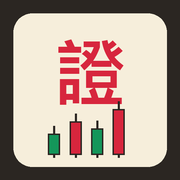
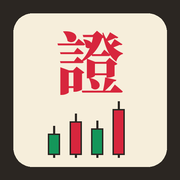
天氣改成純隨機、加入製作與授權頁、圖示改用 Noto Serif TC、兩家公司改名避免和上市公司撞名

Changed region(s): [[0.3056, 0.1667, 0.6944, 0.5833]]

diff --git a/index.html b/index.html
@@ -1262,7 +1262,7 @@ const STOCKS = [
   { id: 'gar', name: '新莊成衣', sector: '紡織', st: '循環', p0: 15.6, beta: 1.0, vol: 0.025, cap: 1, weak: true },
   { id: 'pla', name: '淡水塑化', sector: '塑化', st: '循環', p0: 46, beta: 1.0, vol: 0.016, cap: 7 },
   { id: 'chm', name: '港都化工', sector: '塑化', st: '循環', p0: 31, beta: 1.1, vol: 0.02, cap: 3 },
-  { id: 'stl', name: '南港鋼鐵', sector: '鋼鐵', st: '循環', p0: 25, beta: 1.1, vol: 0.022, cap: 4 },
+  { id: 'stl', name: '八里鋼鐵', sector: '鋼鐵', st: '循環', p0: 25, beta: 1.1, vol: 0.022, cap: 4 },
   { id: 'cem', name: '鶯歌水泥', sector: '水泥', st: '循環', p0: 34, beta: 1.0, vol: 0.018, cap: 3 },
   { id: 'shp', name: '基港航運', sector: '航運', st: '循環', p0: 22.3, beta: 1.2, vol: 0.027, cap: 3 },
   { id: 'sea', name: '高港海運', sector: '航運', st: '循環', p0: 18.4, beta: 1.3, vol: 0.03, cap: 2, weak: true },
@@ -1276,7 +1276,7 @@ const STOCKS = [
   { id: 'pkg', name: '竹科封測', sector: '半導體', st: '成長', p0: 44, beta: 1.35, vol: 0.03, cap: 3 },
   { id: 'srv', name: '雲頂電腦', sector: '伺服器', st: '成長', p0: 42, beta: 1.4, vol: 0.032, cap: 3 },
   { id: 'net', name: '內湖網通', sector: '伺服器', st: '成長', p0: 31, beta: 1.4, vol: 0.034, cap: 2 },
-  { id: 'bio', name: '南港生技', sector: '生技', st: '成長', p0: 66, beta: 1.0, vol: 0.035, cap: 2 },
+  { id: 'bio', name: '士林生技', sector: '生技', st: '成長', p0: 66, beta: 1.0, vol: 0.035, cap: 2 },
   { id: 'med', name: '北投藥廠', sector: '生技', st: '價值', p0: 39, beta: 0.8, vol: 0.02, cap: 2, weak: true },
   { id: 'ipo1', name: '光華電腦', sector: '伺服器', st: '成長', p0: 48, beta: 1.5, vol: 0.038, cap: 2, ipo: true },
   { id: 'ipo2', name: '竹北光電', sector: '電子', st: '成長', p0: 36, beta: 1.4, vol: 0.036, cap: 2, ipo: true },
@@ -1473,20 +1473,6 @@ function rebuildSeason() {
 }
 function limitOf(d) { return (SEASON && SEASON.limit && SEASON.limit[d]) || { up: LIMIT, dn: LIMIT, ns: false }; }
 function limitsL(p, L) { let up = roundTick(p * (1 + L.up)), dn = roundTick(p * (1 - L.dn)); if (up > p * (1 + L.up) + 1e-9) up -= tick(p); if (dn < p * (1 - L.dn) - 1e-9) dn += tick(p); return [up, dn]; }
-// 即時天氣（Open-Meteo，台北）。Claude 的預覽頁面會擋外部連線，失敗時就沿用模擬天氣。
-function wmoToWeather(code, wind) {
-  if (wind >= 62) return 'typhoon';
-  if (code >= 95 || (code >= 65 && code <= 67) || code === 82) return 'storm';
-  if ((code >= 51 && code <= 64) || (code >= 80 && code <= 81)) return 'rain';
-  if (code >= 2) return 'cloud';
-  return 'sun';
-}
-async function fetchRealWeather() {
-  const url = 'https://api.open-meteo.com/v1/forecast?latitude=25.05&longitude=121.52&current=temperature_2m,weather_code,wind_speed_10m&timezone=Asia%2FTaipei';
-  const ctl = new AbortController(); const tm = setTimeout(() => ctl.abort(), 6000);
-  try { const r = await fetch(url, { signal: ctl.signal }); const j = await r.json(); const c = j.current; return { w: wmoToWeather(c.weather_code, c.wind_speed_10m), t: Math.round(c.temperature_2m) }; }
-  catch (e) { return null; } finally { clearTimeout(tm); }
-}
 function limits(p, d) { return limitsL(p, limitOf(d === undefined ? (typeof S !== 'undefined' && S ? S.day : 1) : d)); }
 // 盤中走勢：從開盤走到收盤的布朗橋，漲跌停時常常一開盤就鎖住
 function genIntraday(d) {
@@ -1562,7 +1548,7 @@ function resolveRumors(d) {
    ========================================================= */
 const $ = id => document.getElementById(id);
 const SAVE_KEY = 'stock-tycoon-v1';
-const S0 = () => ({ seed: (Math.random() * 1e9) | 0, day: 1, season: 1, cash: START_CASH, hold: {}, mar: {}, sht: {}, eggs: {}, certs: [], bullSeason: 0, speed: 1, realWx: false, wOver: {}, goalSeen: {}, tradeDay: 0, izDay: 0, notesSeen: false, usedMargin: false, deposit: 0, depDay: 0, ponziGone: false, phone: false, rumors: [], talked: {}, rank: 0, seen: [], dayStartNet: START_CASH, min: 7 * 60, music: false, sfx: false, pos: null, won: false });
+const S0 = () => ({ seed: (Math.random() * 1e9) | 0, day: 1, season: 1, cash: START_CASH, hold: {}, mar: {}, sht: {}, eggs: {}, certs: [], bullSeason: 0, speed: 1, wOver: {}, goalSeen: {}, tradeDay: 0, izDay: 0, notesSeen: false, usedMargin: false, deposit: 0, depDay: 0, ponziGone: false, phone: false, rumors: [], talked: {}, rank: 0, seen: [], dayStartNet: START_CASH, min: 7 * 60, music: false, sfx: false, pos: null, won: false });
 let S = S0();
 const GAME = { mode: 'title', started: false, busy: false, t: 0, idxTicks: [] };
 const MK = { path: null, k: -1, prices: null };
@@ -2232,7 +2218,7 @@ function renderNotes() {
 let helpTab = 'guide';
 function openHelp() {
   if (GAME.busy) return; GAME.busy = true; $('help').classList.remove('hide');
-  let h = `<div class="tabs" style="margin-bottom:10px"><button class="tab ${helpTab === 'guide' ? 'on' : ''}" data-h="guide">新手指南</button><button class="tab ${helpTab === 'set' ? 'on' : ''}" data-h="set">設定</button></div>`;
+  let h = `<div class="tabs" style="margin-bottom:10px"><button class="tab ${helpTab === 'guide' ? 'on' : ''}" data-h="guide">新手指南</button><button class="tab ${helpTab === 'set' ? 'on' : ''}" data-h="set">設定</button><button class="tab ${helpTab === 'about' ? 'on' : ''}" data-h="about">製作與授權</button></div>`;
   if (helpTab === 'guide') h += `<div class="guide">
     <p style="margin-top:0">1980 年代末的台北，股市像坐雲霄飛車。你是剛到證券行跑單的<b>阿德</b>，帶著 ${wan(START_CASH)}，目標是成為<b>證券大亨</b>（總資產 ${wan(RANKS[RANKS.length - 1].min)}）。左上角的「任務提示」會告訴你下一步做什麼，點一下就會標出目的地。</p>
     <h4>1. 一天怎麼過</h4>
@@ -2247,7 +2233,7 @@ function openHelp() {
     <h4>5. 股票類型</h4>
     <ul><li><b>成長股</b>（電子、半導體、伺服器、生技）：波動大，景氣好、題材熱時漲得兇，升息時跌得重。</li><li><b>價值股</b>（金融、電信、食品、紡織資產股）：波動小，比較抗跌。</li><li><b>景氣循環股</b>（塑化、鋼鐵、航運、營建）：跟著景氣、油價和原物料起伏。</li></ul>
     <h4>6. 天氣與情緒</h4>
-    <ul><li>晴天大家心情好，股價稍微偏多；下雨天證券行人少，成交量變小、股價稍微偏弱；遇到颱風會放颱風假、休市一天。影響都很小，大方向還是看消息和事件。</li><li>在設定裡可以改成「台北即時天氣」（要在 GitHub Pages 等一般網頁上才抓得到，Claude 的預覽頁面會擋外部連線）。</li></ul>
+    <ul><li>晴天大家心情好，股價稍微偏多；下雨天證券行人少，成交量變小、股價稍微偏弱；遇到颱風會放颱風假、休市一天。影響都很小，大方向還是看消息和事件。</li><li>每天的天氣由遊戲隨機決定，不會連線抓真實天氣。</li></ul>
     <h4>7. 事件卡與歷史小百科</h4>
     <p>每個月會從真實歷史改編的事件裡抽 5 張，隨機排列，包括 1987 黑色星期一、1979–1981 聯準會暴力升息、1995–1996 台海飛彈危機、1997 亞洲金融風暴、2023–2024 AI 浪潮等。爆發時會出現「號外」，消息本的「歷史小百科」記錄它改編自哪一段歷史。地下投資公司每個月一定會倒，別把錢放太久。</p>
     <h4>8. 身分晉升</h4>
@@ -2256,12 +2242,11 @@ function openHelp() {
     <h4>9. 操作</h4>
     <p>WASD／方向鍵移動、Shift 快跑、E 說話、K 看盤下單、N 消息本、P 暫停、T 快轉到下一個時段、M 城市地圖、H 指南、Q 暫存、O 存檔與讀檔、拖曳轉視角。遊戲不會自動存檔，記得隨手按 Q 留暫存點。手機用左下搖桿、右下「互動」「看盤」。</p>
     <p class="note">這是原型。公司、人物與行情都是虛構的；重大事件改編自 1980 年代末到 1990 年的台灣與國際股市歷史，經過隨機排列，僅供體驗與學習，不構成任何投資建議。</p></div>`;
+  else if (helpTab === 'about') h += CREDITS_HTML;
   else h += `
     <p>盤中時間（09:00–13:30）：${SPEEDS.map(([v, t]) => `<button class="btn ${(S.spOpen || 1) === v ? 'pri' : ''}" data-spo="${v}">${t}</button>`).join(' ')}</p>
     <p>逛街時間（盤前、盤後、晚上）：${SPEEDS.map(([v, t]) => `<button class="btn ${(S.spWalk || 1) === v ? 'pri' : ''}" data-spw="${v}">${t}</button>`).join(' ')}</p>
     <p class="note">照現在的設定，一天大約 ${dayMinutes()} 分鐘（說話、看盤、看報紙時時間會暫停）。逛完了可以按「快轉」，或回家睡覺直接跳到隔天。</p>
-    <p>天氣來源：<button class="btn" id="hpWx">${S.realWx ? '台北即時天氣（開）' : '遊戲模擬天氣'}</button></p>
-    <p class="note" style="margin-top:-4px">即時天氣使用 Open-Meteo 的台北天氣，只會在盤前套用到「今天」。抓不到時自動改用模擬天氣。</p>
     <p><button class="btn" id="hpMus">音樂：${S.music ? '開' : '關'}</button> <button class="btn" id="hpSfx">音效：${S.sfx ? '開' : '關'}</button> <button class="btn" id="hpPow">省電模式：${POWER ? '開' : '關'}</button> <button class="btn" id="hpVib">震動：${VIB ? '開' : '關'}</button> <button class="btn" id="hpReset">重新開始新的一年</button></p>
     <p class="note"><b>手機小技巧</b>：點人物頭上的名字，阿德會自己走過去說話。想像 App 一樣全螢幕玩，可以把遊戲加入主畫面——iPhone 用 Safari 的「分享 → 加入主畫面」，Android 用 Chrome 右上角「⋮ → 加到主畫面」或「安裝應用程式」。</p>
     <p class="note" style="margin-top:-4px">重新開始不會刪掉暫存點和存檔格。</p>`;
@@ -2274,21 +2259,27 @@ function openHelp() {
   if (q('hpSfx')) q('hpSfx').onclick = () => { setSound('sfx'); openHelp2(); };
   $('hpBody').querySelectorAll('[data-spo]').forEach(b => b.onclick = () => { S.spOpen = +b.dataset.spo; openHelp2(); });
   $('hpBody').querySelectorAll('[data-spw]').forEach(b => b.onclick = () => { S.spWalk = +b.dataset.spw; openHelp2(); });
-  if (q('hpWx')) q('hpWx').onclick = async () => { S.realWx = !S.realWx; saveGame(); openHelp2(); if (S.realWx) await useRealWeather(true); };
   if (q('hpReset')) q('hpReset').onclick = function () { if (this.dataset.c) { closeModals(); startGame(false); } else { this.dataset.c = 1; this.textContent = '再按一次確定'; this.style.background = 'var(--accent)'; this.style.color = '#fff'; } };
 }
 function openHelp2() { GAME.busy = false; openHelp(); }
+/* ---------- 製作與授權 ---------- */
+const CREDITS_HTML = `<div class="guide">
+  <h4>製作分工</h4>
+  <ul><li><b>作者</b>：遊戲概念與 1980 年代台北股市的世界觀、玩法與規則、目標金額與難度、角色與事件的取捨、每一輪試玩後的修改方向，以及背景音樂。</li>
+  <li><b>AI 協作</b>：程式實作、用程式產生的 3D 城市與人物、行情模擬的數值校準和文字草稿，由 Claude（Anthropic 的 AI）依作者的指示完成。所有內容都經過作者試玩與審閱。</li></ul>
+  <h4>音樂與音效</h4>
+  <ul><li>背景音樂〈Calculated Ascent〉（盤中）、〈Ready for the First Move〉（其他時段）：作者提供的原創音樂。</li><li>結局配樂與音效：瀏覽器即時合成，沒有使用外部音檔。</li></ul>
+  <h4>第三方元件</h4>
+  <ul><li>3D 引擎 <b>three.js r128</b>：MIT License，© 2010–2021 three.js authors。</li>
+  <li>字型 <b>Huninn（jf open 粉圓）</b>、<b>Noto Serif TC</b>、<b>VT323</b>：SIL Open Font License 1.1，由 Google Fonts 提供。App 圖示也是用 Noto Serif TC 繪製。</li></ul>
+  <h4>資料與內容</h4>
+  <ul><li>公司、人物、對話都是虛構的；天氣每天由遊戲隨機產生。</li><li>市場事件改編自公開的歷史，經過重新排列，時間、順序和漲跌幅都不等於真實歷史。</li><li>遊戲不會收集任何個人資料，存檔只存在這台裝置的瀏覽器裡。</li></ul>
+  <p class="note">這是一款遊戲，不構成任何投資建議。</p></div>`;
 
 /* ---------- 天氣 ---------- */
+// 舊版存檔可能記了當時抓到的真實天氣，讀檔時照樣套用，行情才會和存檔時一樣
 function applyWeatherOverrides() { for (const d in S.wOver || {}) { if (+d <= DAYS) { SEASON.weather[d] = S.wOver[d].w; SEASON.temp[d] = S.wOver[d].t; } } rebuildSeason(); }
-async function useRealWeather(manual) {
-  if (PHASE() !== 'pre') { if (manual) toast('即時天氣會從明天盤前開始套用'); return; }
-  const r = await fetchRealWeather();
-  if (!r) { if (manual) toast('抓不到即時天氣（Claude 預覽頁面會擋外部連線），先用模擬天氣'); return; }
-  S.wOver[S.day] = r; applyWeatherOverrides(); MK.prices = null; drawBoard(); toast(`台北即時天氣：${WEATHER[r.w].name} ${r.t}°C`); saveGame();
-}
 async function dayWeather() {
-  if (S.realWx) await useRealWeather(false);
   const w = SEASON.weather[Math.min(S.day, DAYS)], tip = { rain: '下雨天證券行人少，成交量會變小', storm: '豪雨特報，市場氣氛偏悲觀', typhoon: '颱風來了，今天會放颱風假休市', sun: '晴天，大家心情不錯', cloud: '陰天' }[w];
   toast(`今天天氣：${WEATHER[w].name} ${SEASON.temp[Math.min(S.day, DAYS)]}°C・${tip}`);
 }
@@ -3693,7 +3684,7 @@ const PROFILE = {
   tel: '公營改民營的電信公司，股價最穩，像定存。', gas: '北城的瓦斯公司，業績穩定、波動很小。', food: '泡麵、罐頭都做，景氣不好時反而撐得住。',
   sug: '老糖廠轉型，地很多，常被當成資產股。', milk: '小乳品廠，財務體質不好，傳言多。', tex: '大稻埕老紡織廠，工廠用地比本業還值錢。',
   gar: '代工成衣廠，訂單一直被東南亞搶走。', pla: '塑化龍頭，跟著油價和景氣大起大落。', chm: '港都的化工廠，產品報價一漲股價就飆。',
-  stl: '南港的鋼鐵廠，景氣循環的代表。', cem: '水泥廠，公共建設和房市熱的時候最好。', shp: '貨櫃航運，運價一動就漲停跌停。',
+  stl: '八里海邊的鋼鐵廠，景氣循環的代表。', cem: '水泥廠，公共建設和房市熱的時候最好。', shp: '貨櫃航運，運價一動就漲停跌停。',
   sea: '散裝航運，體質比較弱，是投機客的最愛。', con: '營建大廠，預售屋賣得好壞決定一切。', est: '東區新興建商，擴張很快、借錢很多。',
   dept: '西門町的百貨公司，週年慶和觀光客決定業績。', ele: '新竹科學園區的電子廠，接單消息一來就飆。', pcb: '做電路板的板橋工廠，跟著電子業景氣走。',
   mot: '中和的小電機廠，傳產轉型不太順利。', fab: '晶圓代工，技術領先，外資和法人最愛。', pkg: '竹科的封裝測試廠，跟著晶圓廠接單。',

diff --git a/src/8_flow.js b/src/8_flow.js
@@ -388,7 +388,7 @@ function renderNotes() {
 let helpTab = 'guide';
 function openHelp() {
   if (GAME.busy) return; GAME.busy = true; $('help').classList.remove('hide');
-  let h = `<div class="tabs" style="margin-bottom:10px"><button class="tab ${helpTab === 'guide' ? 'on' : ''}" data-h="guide">新手指南</button><button class="tab ${helpTab === 'set' ? 'on' : ''}" data-h="set">設定</button></div>`;
+  let h = `<div class="tabs" style="margin-bottom:10px"><button class="tab ${helpTab === 'guide' ? 'on' : ''}" data-h="guide">新手指南</button><button class="tab ${helpTab === 'set' ? 'on' : ''}" data-h="set">設定</button><button class="tab ${helpTab === 'about' ? 'on' : ''}" data-h="about">製作與授權</button></div>`;
   if (helpTab === 'guide') h += `<div class="guide">
     <p style="margin-top:0">1980 年代末的台北，股市像坐雲霄飛車。你是剛到證券行跑單的<b>阿德</b>，帶著 ${wan(START_CASH)}，目標是成為<b>證券大亨</b>（總資產 ${wan(RANKS[RANKS.length - 1].min)}）。左上角的「任務提示」會告訴你下一步做什麼，點一下就會標出目的地。</p>
     <h4>1. 一天怎麼過</h4>
@@ -403,7 +403,7 @@ function openHelp() {
     <h4>5. 股票類型</h4>
     <ul><li><b>成長股</b>（電子、半導體、伺服器、生技）：波動大，景氣好、題材熱時漲得兇，升息時跌得重。</li><li><b>價值股</b>（金融、電信、食品、紡織資產股）：波動小，比較抗跌。</li><li><b>景氣循環股</b>（塑化、鋼鐵、航運、營建）：跟著景氣、油價和原物料起伏。</li></ul>
     <h4>6. 天氣與情緒</h4>
-    <ul><li>晴天大家心情好，股價稍微偏多；下雨天證券行人少，成交量變小、股價稍微偏弱；遇到颱風會放颱風假、休市一天。影響都很小，大方向還是看消息和事件。</li><li>在設定裡可以改成「台北即時天氣」（要在 GitHub Pages 等一般網頁上才抓得到，Claude 的預覽頁面會擋外部連線）。</li></ul>
+    <ul><li>晴天大家心情好，股價稍微偏多；下雨天證券行人少，成交量變小、股價稍微偏弱；遇到颱風會放颱風假、休市一天。影響都很小，大方向還是看消息和事件。</li><li>每天的天氣由遊戲隨機決定，不會連線抓真實天氣。</li></ul>
     <h4>7. 事件卡與歷史小百科</h4>
     <p>每個月會從真實歷史改編的事件裡抽 5 張，隨機排列，包括 1987 黑色星期一、1979–1981 聯準會暴力升息、1995–1996 台海飛彈危機、1997 亞洲金融風暴、2023–2024 AI 浪潮等。爆發時會出現「號外」，消息本的「歷史小百科」記錄它改編自哪一段歷史。地下投資公司每個月一定會倒，別把錢放太久。</p>
     <h4>8. 身分晉升</h4>
@@ -412,12 +412,11 @@ function openHelp() {
     <h4>9. 操作</h4>
     <p>WASD／方向鍵移動、Shift 快跑、E 說話、K 看盤下單、N 消息本、P 暫停、T 快轉到下一個時段、M 城市地圖、H 指南、Q 暫存、O 存檔與讀檔、拖曳轉視角。遊戲不會自動存檔，記得隨手按 Q 留暫存點。手機用左下搖桿、右下「互動」「看盤」。</p>
     <p class="note">這是原型。公司、人物與行情都是虛構的；重大事件改編自 1980 年代末到 1990 年的台灣與國際股市歷史，經過隨機排列，僅供體驗與學習，不構成任何投資建議。</p></div>`;
+  else if (helpTab === 'about') h += CREDITS_HTML;
   else h += `
     <p>盤中時間（09:00–13:30）：${SPEEDS.map(([v, t]) => `<button class="btn ${(S.spOpen || 1) === v ? 'pri' : ''}" data-spo="${v}">${t}</button>`).join(' ')}</p>
     <p>逛街時間（盤前、盤後、晚上）：${SPEEDS.map(([v, t]) => `<button class="btn ${(S.spWalk || 1) === v ? 'pri' : ''}" data-spw="${v}">${t}</button>`).join(' ')}</p>
     <p class="note">照現在的設定，一天大約 ${dayMinutes()} 分鐘（說話、看盤、看報紙時時間會暫停）。逛完了可以按「快轉」，或回家睡覺直接跳到隔天。</p>
-    <p>天氣來源：<button class="btn" id="hpWx">${S.realWx ? '台北即時天氣（開）' : '遊戲模擬天氣'}</button></p>
-    <p class="note" style="margin-top:-4px">即時天氣使用 Open-Meteo 的台北天氣，只會在盤前套用到「今天」。抓不到時自動改用模擬天氣。</p>
     <p><button class="btn" id="hpMus">音樂：${S.music ? '開' : '關'}</button> <button class="btn" id="hpSfx">音效：${S.sfx ? '開' : '關'}</button> <button class="btn" id="hpPow">省電模式：${POWER ? '開' : '關'}</button> <button class="btn" id="hpVib">震動：${VIB ? '開' : '關'}</button> <button class="btn" id="hpReset">重新開始新的一年</button></p>
     <p class="note"><b>手機小技巧</b>：點人物頭上的名字，阿德會自己走過去說話。想像 App 一樣全螢幕玩，可以把遊戲加入主畫面——iPhone 用 Safari 的「分享 → 加入主畫面」，Android 用 Chrome 右上角「⋮ → 加到主畫面」或「安裝應用程式」。</p>
     <p class="note" style="margin-top:-4px">重新開始不會刪掉暫存點和存檔格。</p>`;
@@ -430,21 +429,27 @@ function openHelp() {
   if (q('hpSfx')) q('hpSfx').onclick = () => { setSound('sfx'); openHelp2(); };
   $('hpBody').querySelectorAll('[data-spo]').forEach(b => b.onclick = () => { S.spOpen = +b.dataset.spo; openHelp2(); });
   $('hpBody').querySelectorAll('[data-spw]').forEach(b => b.onclick = () => { S.spWalk = +b.dataset.spw; openHelp2(); });
-  if (q('hpWx')) q('hpWx').onclick = async () => { S.realWx = !S.realWx; saveGame(); openHelp2(); if (S.realWx) await useRealWeather(true); };
   if (q('hpReset')) q('hpReset').onclick = function () { if (this.dataset.c) { closeModals(); startGame(false); } else { this.dataset.c = 1; this.textContent = '再按一次確定'; this.style.background = 'var(--accent)'; this.style.color = '#fff'; } };
 }
 function openHelp2() { GAME.busy = false; openHelp(); }
+/* ---------- 製作與授權 ---------- */
+const CREDITS_HTML = `<div class="guide">
+  <h4>製作分工</h4>
+  <ul><li><b>作者</b>：遊戲概念與 1980 年代台北股市的世界觀、玩法與規則、目標金額與難度、角色與事件的取捨、每一輪試玩後的修改方向，以及背景音樂。</li>
+  <li><b>AI 協作</b>：程式實作、用程式產生的 3D 城市與人物、行情模擬的數值校準和文字草稿，由 Claude（Anthropic 的 AI）依作者的指示完成。所有內容都經過作者試玩與審閱。</li></ul>
+  <h4>音樂與音效</h4>
+  <ul><li>背景音樂〈Calculated Ascent〉（盤中）、〈Ready for the First Move〉（其他時段）：作者提供的原創音樂。</li><li>結局配樂與音效：瀏覽器即時合成，沒有使用外部音檔。</li></ul>
+  <h4>第三方元件</h4>
+  <ul><li>3D 引擎 <b>three.js r128</b>：MIT License，© 2010–2021 three.js authors。</li>
+  <li>字型 <b>Huninn（jf open 粉圓）</b>、<b>Noto Serif TC</b>、<b>VT323</b>：SIL Open Font License 1.1，由 Google Fonts 提供。App 圖示也是用 Noto Serif TC 繪製。</li></ul>
+  <h4>資料與內容</h4>
+  <ul><li>公司、人物、對話都是虛構的；天氣每天由遊戲隨機產生。</li><li>市場事件改編自公開的歷史，經過重新排列，時間、順序和漲跌幅都不等於真實歷史。</li><li>遊戲不會收集任何個人資料，存檔只存在這台裝置的瀏覽器裡。</li></ul>
+  <p class="note">這是一款遊戲，不構成任何投資建議。</p></div>`;
 
 /* ---------- 天氣 ---------- */
+// 舊版存檔可能記了當時抓到的真實天氣，讀檔時照樣套用，行情才會和存檔時一樣
 function applyWeatherOverrides() { for (const d in S.wOver || {}) { if (+d <= DAYS) { SEASON.weather[d] = S.wOver[d].w; SEASON.temp[d] = S.wOver[d].t; } } rebuildSeason(); }
-async function useRealWeather(manual) {
-  if (PHASE() !== 'pre') { if (manual) toast('即時天氣會從明天盤前開始套用'); return; }
-  const r = await fetchRealWeather();
-  if (!r) { if (manual) toast('抓不到即時天氣（Claude 預覽頁面會擋外部連線），先用模擬天氣'); return; }
-  S.wOver[S.day] = r; applyWeatherOverrides(); MK.prices = null; drawBoard(); toast(`台北即時天氣：${WEATHER[r.w].name} ${r.t}°C`); saveGame();
-}
 async function dayWeather() {
-  if (S.realWx) await useRealWeather(false);
   const w = SEASON.weather[Math.min(S.day, DAYS)], tip = { rain: '下雨天證券行人少，成交量會變小', storm: '豪雨特報，市場氣氛偏悲觀', typhoon: '颱風來了，今天會放颱風假休市', sun: '晴天，大家心情不錯', cloud: '陰天' }[w];
   toast(`今天天氣：${WEATHER[w].name} ${SEASON.temp[Math.min(S.day, DAYS)]}°C・${tip}`);
 }

diff --git a/src/6_market.js b/src/6_market.js
@@ -15,7 +15,7 @@ const STOCKS = [
   { id: 'gar', name: '新莊成衣', sector: '紡織', st: '循環', p0: 15.6, beta: 1.0, vol: 0.025, cap: 1, weak: true },
   { id: 'pla', name: '淡水塑化', sector: '塑化', st: '循環', p0: 46, beta: 1.0, vol: 0.016, cap: 7 },
   { id: 'chm', name: '港都化工', sector: '塑化', st: '循環', p0: 31, beta: 1.1, vol: 0.02, cap: 3 },
-  { id: 'stl', name: '南港鋼鐵', sector: '鋼鐵', st: '循環', p0: 25, beta: 1.1, vol: 0.022, cap: 4 },
+  { id: 'stl', name: '八里鋼鐵', sector: '鋼鐵', st: '循環', p0: 25, beta: 1.1, vol: 0.022, cap: 4 },
   { id: 'cem', name: '鶯歌水泥', sector: '水泥', st: '循環', p0: 34, beta: 1.0, vol: 0.018, cap: 3 },
   { id: 'shp', name: '基港航運', sector: '航運', st: '循環', p0: 22.3, beta: 1.2, vol: 0.027, cap: 3 },
   { id: 'sea', name: '高港海運', sector: '航運', st: '循環', p0: 18.4, beta: 1.3, vol: 0.03, cap: 2, weak: true },
@@ -29,7 +29,7 @@ const STOCKS = [
   { id: 'pkg', name: '竹科封測', sector: '半導體', st: '成長', p0: 44, beta: 1.35, vol: 0.03, cap: 3 },
   { id: 'srv', name: '雲頂電腦', sector: '伺服器', st: '成長', p0: 42, beta: 1.4, vol: 0.032, cap: 3 },
   { id: 'net', name: '內湖網通', sector: '伺服器', st: '成長', p0: 31, beta: 1.4, vol: 0.034, cap: 2 },
-  { id: 'bio', name: '南港生技', sector: '生技', st: '成長', p0: 66, beta: 1.0, vol: 0.035, cap: 2 },
+  { id: 'bio', name: '士林生技', sector: '生技', st: '成長', p0: 66, beta: 1.0, vol: 0.035, cap: 2 },
   { id: 'med', name: '北投藥廠', sector: '生技', st: '價值', p0: 39, beta: 0.8, vol: 0.02, cap: 2, weak: true },
   { id: 'ipo1', name: '光華電腦', sector: '伺服器', st: '成長', p0: 48, beta: 1.5, vol: 0.038, cap: 2, ipo: true },
   { id: 'ipo2', name: '竹北光電', sector: '電子', st: '成長', p0: 36, beta: 1.4, vol: 0.036, cap: 2, ipo: true },
@@ -226,20 +226,6 @@ function rebuildSeason() {
 }
 function limitOf(d) { return (SEASON && SEASON.limit && SEASON.limit[d]) || { up: LIMIT, dn: LIMIT, ns: false }; }
 function limitsL(p, L) { let up = roundTick(p * (1 + L.up)), dn = roundTick(p * (1 - L.dn)); if (up > p * (1 + L.up) + 1e-9) up -= tick(p); if (dn < p * (1 - L.dn) - 1e-9) dn += tick(p); return [up, dn]; }
-// 即時天氣（Open-Meteo，台北）。Claude 的預覽頁面會擋外部連線，失敗時就沿用模擬天氣。
-function wmoToWeather(code, wind) {
-  if (wind >= 62) return 'typhoon';
-  if (code >= 95 || (code >= 65 && code <= 67) || code === 82) return 'storm';
-  if ((code >= 51 && code <= 64) || (code >= 80 && code <= 81)) return 'rain';
-  if (code >= 2) return 'cloud';
-  return 'sun';
-}
-async function fetchRealWeather() {
-  const url = 'https://api.open-meteo.com/v1/forecast?latitude=25.05&longitude=121.52&current=temperature_2m,weather_code,wind_speed_10m&timezone=Asia%2FTaipei';
-  const ctl = new AbortController(); const tm = setTimeout(() => ctl.abort(), 6000);
-  try { const r = await fetch(url, { signal: ctl.signal }); const j = await r.json(); const c = j.current; return { w: wmoToWeather(c.weather_code, c.wind_speed_10m), t: Math.round(c.temperature_2m) }; }
-  catch (e) { return null; } finally { clearTimeout(tm); }
-}
 function limits(p, d) { return limitsL(p, limitOf(d === undefined ? (typeof S !== 'undefined' && S ? S.day : 1) : d)); }
 // 盤中走勢：從開盤走到收盤的布朗橋，漲跌停時常常一開盤就鎖住
 function genIntraday(d) {

diff --git a/src/8g_life.js b/src/8g_life.js
@@ -196,7 +196,7 @@ const PROFILE = {
   tel: '公營改民營的電信公司，股價最穩，像定存。', gas: '北城的瓦斯公司，業績穩定、波動很小。', food: '泡麵、罐頭都做，景氣不好時反而撐得住。',
   sug: '老糖廠轉型，地很多，常被當成資產股。', milk: '小乳品廠，財務體質不好，傳言多。', tex: '大稻埕老紡織廠，工廠用地比本業還值錢。',
   gar: '代工成衣廠，訂單一直被東南亞搶走。', pla: '塑化龍頭，跟著油價和景氣大起大落。', chm: '港都的化工廠，產品報價一漲股價就飆。',
-  stl: '南港的鋼鐵廠，景氣循環的代表。', cem: '水泥廠，公共建設和房市熱的時候最好。', shp: '貨櫃航運，運價一動就漲停跌停。',
+  stl: '八里海邊的鋼鐵廠，景氣循環的代表。', cem: '水泥廠，公共建設和房市熱的時候最好。', shp: '貨櫃航運，運價一動就漲停跌停。',
   sea: '散裝航運，體質比較弱，是投機客的最愛。', con: '營建大廠，預售屋賣得好壞決定一切。', est: '東區新興建商，擴張很快、借錢很多。',
   dept: '西門町的百貨公司，週年慶和觀光客決定業績。', ele: '新竹科學園區的電子廠，接單消息一來就飆。', pcb: '做電路板的板橋工廠，跟著電子業景氣走。',
   mot: '中和的小電機廠，傳產轉型不太順利。', fab: '晶圓代工，技術領先，外資和法人最愛。', pkg: '竹科的封裝測試廠，跟著晶圓廠接單。',

diff --git a/src/7_game.js b/src/7_game.js
@@ -3,7 +3,7 @@
    ========================================================= */
 const $ = id => document.getElementById(id);
 const SAVE_KEY = 'stock-tycoon-v1';
-const S0 = () => ({ seed: (Math.random() * 1e9) | 0, day: 1, season: 1, cash: START_CASH, hold: {}, mar: {}, sht: {}, eggs: {}, certs: [], bullSeason: 0, speed: 1, realWx: false, wOver: {}, goalSeen: {}, tradeDay: 0, izDay: 0, notesSeen: false, usedMargin: false, deposit: 0, depDay: 0, ponziGone: false, phone: false, rumors: [], talked: {}, rank: 0, seen: [], dayStartNet: START_CASH, min: 7 * 60, music: false, sfx: false, pos: null, won: false });
+const S0 = () => ({ seed: (Math.random() * 1e9) | 0, day: 1, season: 1, cash: START_CASH, hold: {}, mar: {}, sht: {}, eggs: {}, certs: [], bullSeason: 0, speed: 1, wOver: {}, goalSeen: {}, tradeDay: 0, izDay: 0, notesSeen: false, usedMargin: false, deposit: 0, depDay: 0, ponziGone: false, phone: false, rumors: [], talked: {}, rank: 0, seen: [], dayStartNet: START_CASH, min: 7 * 60, music: false, sfx: false, pos: null, won: false });
 let S = S0();
 const GAME = { mode: 'title', started: false, busy: false, t: 0, idxTicks: [] };
 const MK = { path: null, k: -1, prices: null };

diff --git a/README.md b/README.md
@@ -69,8 +69,18 @@
 - **街景**：騎樓停滿機車、陽台晾衣服，招牌外圍的霓虹燈晚上會閃，路邊有公用電話亭、郵筒、公車站牌，市場和居酒屋門口的小吃攤會冒煙。
 - **新手教學**：第一天營業員小美帶你走一遍：打聽消息 → 下單 → 看收盤 → 查消息本，也可以跳過。
 - **消息系統**：每個人的消息準確度不同，而且不會告訴你，只能從消息本的戰績慢慢推敲；分析師的族群報告三天後驗證。
-- **天氣**：颱風會停止交易，雨天的人氣比較差。在 GitHub Pages 上可以切換成台北的真實天氣。
+- **天氣**：每天隨機，颱風會停止交易，雨天的人氣比較差。
 - **彩蛋**：城裡藏了 10 個，路上的行人偶爾會透露線索。
+
+## 製作與授權
+
+遊戲內「說明 → 製作與授權」也有同樣的內容。
+
+- **作者**：遊戲概念與 1980 年代台北股市的世界觀、玩法與規則、目標金額與難度、角色與事件的取捨、每一輪試玩後的修改方向，以及背景音樂。
+- **AI 協作**：程式實作、用程式產生的 3D 城市與人物、行情模擬的數值校準和文字草稿，由 Claude（Anthropic 的 AI）依作者的指示完成。所有內容都經過作者試玩與審閱。
+- **背景音樂**：〈Calculated Ascent〉、〈Ready for the First Move〉，作者提供的原創音樂。
+- **App 圖示**：用 Noto Serif TC（SIL Open Font License）繪製。
+- 遊戲不會收集任何個人資料，存檔只存在這台裝置的瀏覽器裡，也不會連線抓外部資料（3D 引擎和字型除外）。
 
 ## 免責聲明
 
@@ -83,5 +93,4 @@
 - `src/` 是拆開的原始碼，執行 `sh build.sh` 會把它們串成 `index.html`。
 - 3D 使用 [three.js r128](https://threejs.org/)（MIT 授權，從 cdnjs 載入）。
 - 字型：Google Fonts 的 Huninn（jf open 粉圓）、Noto Serif TC 和 VT323，都是 SIL Open Font License。
-- 真實天氣資料來自 [Open-Meteo](https://open-meteo.com/)（CC BY 4.0）。
 - 背景音樂是兩首原創曲，放在 `music/`：盤中（09:00–13:30）播〈Calculated Ascent〉，其他時段和標題畫面播〈Ready for the First Move〉，換時段時交叉淡入淡出，暫停或關掉音樂時會從原處停住。音樂預設關閉，打開後才會下載音檔（各約 4 MB）。結局配樂和音效是瀏覽器即時合成；音檔載不到時會改放合成的旋律。
